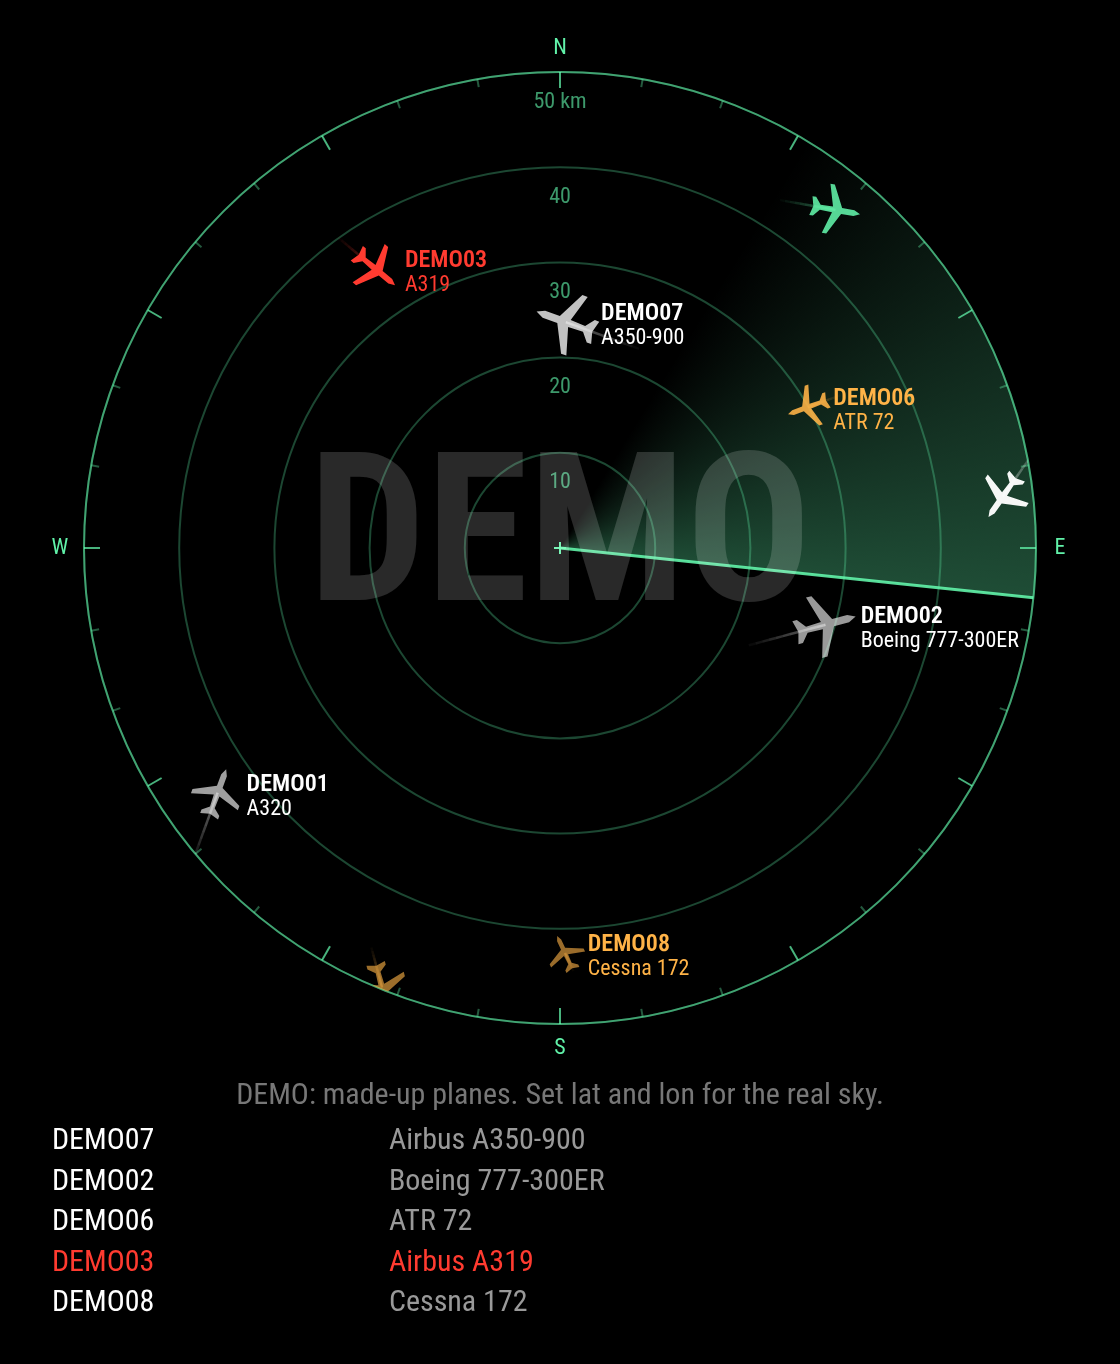
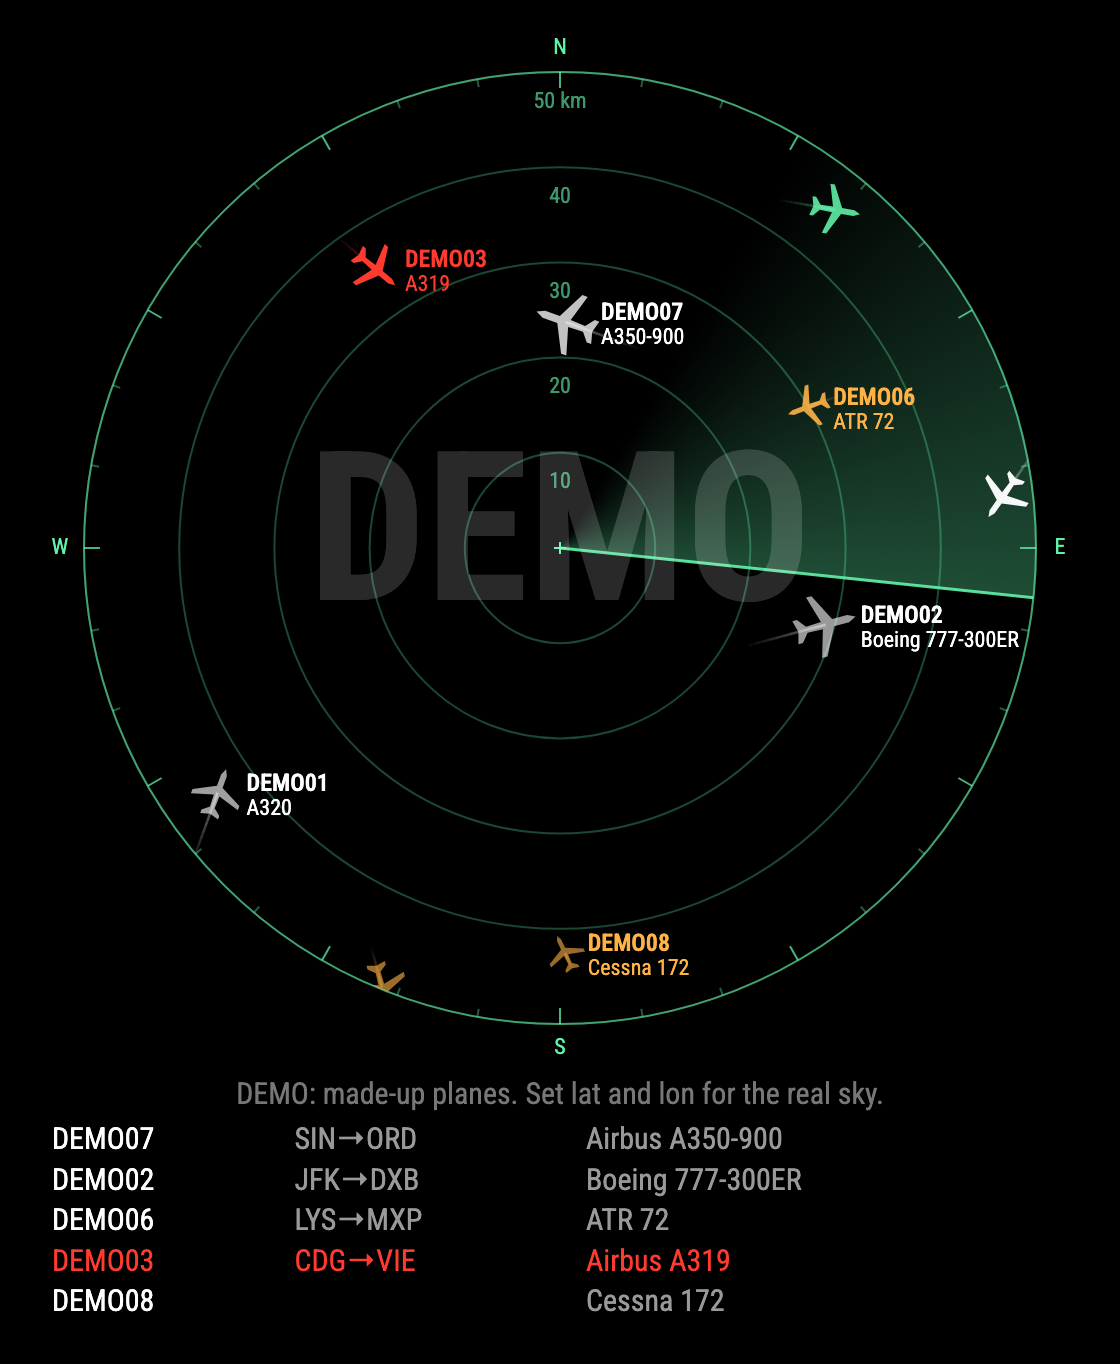
Show flight numbers and routes in the list
Routes come from adsbdb, looked up by callsign only and kept for six
hours. The helper looks them up in the background, so they arrive with
a later update and never hold up the planes. The list now starts with
the IATA flight number and route; the scope labels are unchanged.

diff --git a/lib/feeds.js b/lib/feeds.js
@@ -8,6 +8,8 @@ const KM_PER_DEG_LON = 111.32;
 const MAX_RADIUS_NM = 250;
 const MAX_POSITION_AGE_S = 60;
 const FETCH_TIMEOUT_MS = 8000;
+const ROUTE_URL = "https://api.adsbdb.com/v0/callsign/";
+const USER_AGENT = "MMM-SkyScope (MagicMirror module)";
 
 const FEEDS = [
 	{ name: "adsb.lol", url: (lat, lon, nm) => `https://api.adsb.lol/v2/point/${lat}/${lon}/${nm}` },
@@ -88,7 +90,7 @@ async function fetchPlanes (area, fetchFn = fetch) {
 	for (const feed of FEEDS) {
 		try {
 			const response = await fetchFn(feed.url(area.lat, area.lon, area.nm), {
-				headers: { "User-Agent": "MMM-SkyScope (MagicMirror module)" },
+				headers: { "User-Agent": USER_AGENT },
 				signal: AbortSignal.timeout(FETCH_TIMEOUT_MS)
 			});
 			if (!response.ok) throw new Error(`HTTP ${response.status}`);
@@ -101,6 +103,47 @@ async function fetchPlanes (area, fetchFn = fetch) {
 }
 
 /**
+ * Whether a callsign looks like an airline flight (three letters, then a number), the only kind a route can be found for.
+ * @param {string} callsign as the plane reports it
+ * @returns {boolean} true for something like SWR262C
+ */
+function isFlightCallsign (callsign) {
+	return /^[A-Z]{3}\d[A-Z0-9]{0,4}$/.test(callsign);
+}
+
+/**
+ * Turn an adsbdb answer into the flight number and the airports, preferring the IATA codes people know.
+ * @param {object} body the decoded response
+ * @returns {{flight: string, from: string, to: string}|null} the route, or null when the answer has none
+ */
+function parseRoute (body) {
+	const route = body && body.response && body.response.flightroute;
+	if (!route || !route.origin || !route.destination) return null;
+	const code = (airport) => airport.iata_code || airport.icao_code || "";
+	return {
+		flight: route.callsign_iata || route.callsign || "",
+		from: code(route.origin),
+		to: code(route.destination)
+	};
+}
+
+/**
+ * Look up where a flight goes. Only the callsign is sent, never a position.
+ * @param {string} callsign an airline callsign such as SWR262C
+ * @param {Function} fetchFn fetch, replaceable for the tests
+ * @returns {Promise<object|null>} the route, or null when the callsign is unknown
+ */
+async function fetchRoute (callsign, fetchFn = fetch) {
+	const response = await fetchFn(ROUTE_URL + encodeURIComponent(callsign), {
+		headers: { "User-Agent": USER_AGENT },
+		signal: AbortSignal.timeout(FETCH_TIMEOUT_MS)
+	});
+	if (response.status === 404) return null;
+	if (!response.ok) throw new Error(`HTTP ${response.status}`);
+	return parseRoute(await response.json());
+}
+
+/**
  * A made-up sky: planes on straight lines across the scope, worked out from the clock alone.
  * @param {number} lat centre latitude
  * @param {number} lon centre longitude
@@ -110,12 +153,14 @@ async function fetchPlanes (area, fetchFn = fetch) {
  */
 function demoPlanes (lat, lon, rangeKm, nowMs) {
 	const routes = [
-		[20, -0.5, 460, 37000, "A320", "A3"], [75, 0.3, 480, 39000, "B77W", "A5"], [130, -0.2, 300, 14000, "A319", "A3"],
-		[165, 0.6, 250, 8000, "E190", "A3"], [215, -0.7, 440, 33000, "B738", "A3"], [250, 0.1, 210, 5500, "AT76", "A2"],
-		[290, 0.45, 470, 41000, "A359", "A5"], [335, -0.35, 120, 3500, "C172", "A1"], [100, -0.8, 340, 21000, "CRJ9", "A3"]
+		[20, -0.5, 460, 37000, "A320", "A3", "LHR", "IST"], [75, 0.3, 480, 39000, "B77W", "A5", "JFK", "DXB"],
+		[130, -0.2, 300, 14000, "A319", "A3", "CDG", "VIE"], [165, 0.6, 250, 8000, "E190", "A3", "AMS", "FCO"],
+		[215, -0.7, 440, 33000, "B738", "A3", "CPH", "MAD"], [250, 0.1, 210, 5500, "AT76", "A2", "LYS", "MXP"],
+		[290, 0.45, 470, 41000, "A359", "A5", "SIN", "ORD"], [335, -0.35, 120, 3500, "C172", "A1"],
+		[100, -0.8, 340, 21000, "CRJ9", "A3", "BCN", "MUC"]
 	];
 	const cosLat = Math.cos(lat * Math.PI / 180);
-	return routes.map(([track, offset, speedKt, altFt, type, category], i) => {
+	return routes.map(([track, offset, speedKt, altFt, type, category, from, to], i) => {
 		const heading = track * Math.PI / 180;
 		const length = rangeKm * 2.4;
 		// Speeded up against the range, so a small scope is not crossed in seconds or a large one in hours.
@@ -142,9 +187,10 @@ function demoPlanes (lat, lon, rangeKm, nowMs) {
 			track,
 			climbFpm: i % 3 === 0 ? -900 : i % 3 === 1 ? 0 : 1100,
 			emergency: i === 2,
-			ageMs: 0
+			ageMs: 0,
+			route: from ? { flight: callsign, from, to } : null
 		};
 	});
 }
 
-module.exports = { demoPlanes, fetchPlanes, normalizeAircraft, parseResponse, requestArea };
+module.exports = { demoPlanes, fetchPlanes, fetchRoute, isFlightCallsign, normalizeAircraft, parseResponse, parseRoute, requestArea };

diff --git a/test/feeds.test.js b/test/feeds.test.js
@@ -1,6 +1,6 @@
 const assert = require("node:assert/strict");
 const { test } = require("node:test");
-const { demoPlanes, fetchPlanes, normalizeAircraft, parseResponse, requestArea } = require("../lib/feeds");
+const { demoPlanes, fetchPlanes, fetchRoute, isFlightCallsign, normalizeAircraft, parseResponse, parseRoute, requestArea } = require("../lib/feeds");
 
 const record = { hex: "abc123", flight: "SWR12   ", r: "HB-JCA", t: "BCS3", category: "A3", lat: 47.4, lon: 8.5, alt_baro: 36000, gs: 450, track: 90, baro_rate: -64, squawk: "2777", emergency: "none", seen_pos: 1.5 };
 
@@ -76,4 +76,47 @@ test("the demo sky moves along each plane's track", () => {
 	assert.equal(first.track, 20);
 	assert.ok(later.lat > first.lat, "a plane on track 020 goes north");
 	assert.ok(later.lon > first.lon, "a plane on track 020 goes east");
+});
+const routeBody = { response: { flightroute: {
+	callsign: "SWR262C", callsign_iata: "LX262C",
+	origin: { iata_code: "AGP", icao_code: "LEMG" },
+	destination: { iata_code: "ZRH", icao_code: "LSZH" }
+} } };
+
+test("only airline callsigns are looked up", () => {
+	assert.equal(isFlightCallsign("SWR262C"), true);
+	assert.equal(isFlightCallsign("HB-JCA"), false);
+	assert.equal(isFlightCallsign("ABC123"), true);
+	assert.equal(isFlightCallsign("N12345"), false);
+	assert.equal(isFlightCallsign("4B1805"), false);
+});
+
+test("a route gives the IATA flight number and airports, with ICAO as the fallback", () => {
+	assert.deepEqual(parseRoute(routeBody), { flight: "LX262C", from: "AGP", to: "ZRH" });
+	const icaoOnly = structuredClone(routeBody);
+	delete icaoOnly.response.flightroute.callsign_iata;
+	delete icaoOnly.response.flightroute.origin.iata_code;
+	assert.deepEqual(parseRoute(icaoOnly), { flight: "SWR262C", from: "LEMG", to: "ZRH" });
+	assert.equal(parseRoute({ response: "unknown callsign" }), null);
+});
+
+test("a route lookup sends the callsign and nothing else", async () => {
+	const urls = [];
+	const fakeFetch = async (url) => {
+		urls.push(url);
+		return { ok: true, status: 200, json: async () => routeBody };
+	};
+	assert.deepEqual(await fetchRoute("SWR262C", fakeFetch), { flight: "LX262C", from: "AGP", to: "ZRH" });
+	assert.deepEqual(urls, ["https://api.adsbdb.com/v0/callsign/SWR262C"]);
+});
+
+test("an unknown callsign has no route, a failing service throws", async () => {
+	assert.equal(await fetchRoute("NOPE123", async () => ({ ok: false, status: 404 })), null);
+	await assert.rejects(fetchRoute("SWR262C", async () => ({ ok: false, status: 500 })));
+});
+
+test("demo planes carry made-up routes, except the light plane", () => {
+	const planes = demoPlanes(0, 0, 50, 0);
+	assert.deepEqual(planes[0].route, { flight: "DEMO01", from: "LHR", to: "IST" });
+	assert.equal(planes[7].route, null);
 });

diff --git a/node_helper.js b/node_helper.js
@@ -1,11 +1,17 @@
 const NodeHelper = require("node_helper");
-const { demoPlanes, fetchPlanes, requestArea } = require("./lib/feeds");
+const { demoPlanes, fetchPlanes, fetchRoute, isFlightCallsign, requestArea } = require("./lib/feeds");
 
 const CACHE_MS = 5000;
+const ROUTE_KEEP_MS = 6 * 60 * 60 * 1000;
+const ROUTE_RETRY_MS = 10 * 60 * 1000;
+const ROUTE_LOOKUPS_AT_ONCE = 4;
+const ROUTE_CACHE_SIZE = 2000;
 
 module.exports = NodeHelper.create({
 	start () {
 		this.cache = new Map();
+		this.routes = new Map();
+		this.routeLookups = 0;
 	},
 
 	socketNotificationReceived (notification, payload) {
@@ -21,11 +27,39 @@ module.exports = NodeHelper.create({
 
 		try {
 			const { source, planes } = await this.load(requestArea(lat, lon, rangeKm));
-			this.sendSocketNotification("SKYSCOPE_DATA", { id, ok: true, source, planes });
+			const withRoutes = planes.map((plane) => ({ ...plane, route: this.route(plane.callsign) }));
+			this.sendSocketNotification("SKYSCOPE_DATA", { id, ok: true, source, planes: withRoutes });
 		} catch (error) {
 			console.error(`MMM-SkyScope: no feed answered: ${error.message}`);
 			this.sendSocketNotification("SKYSCOPE_DATA", { id, ok: false });
 		}
+	},
+
+	// The route if it is known. Otherwise it is looked up in the background and goes out with a later update,
+	// so a slow route lookup never holds up the planes.
+	route (callsign) {
+		if (!isFlightCallsign(callsign)) return null;
+		const known = this.routes.get(callsign);
+		const now = Date.now();
+		if (known && (known.pending || now < known.until)) return known.route;
+		if (this.routeLookups >= ROUTE_LOOKUPS_AT_ONCE) return known ? known.route : null;
+
+		if (this.routes.size >= ROUTE_CACHE_SIZE) {
+			for (const [key, entry] of this.routes) {
+				if (!entry.pending && now >= entry.until) this.routes.delete(key);
+			}
+		}
+		const route = known ? known.route : null;
+		this.routes.set(callsign, { route, pending: true });
+		this.routeLookups += 1;
+		fetchRoute(callsign)
+			.then((found) => this.routes.set(callsign, { route: found, until: Date.now() + ROUTE_KEEP_MS }))
+			.catch((error) => {
+				console.warn(`MMM-SkyScope: no route for ${callsign}: ${error.message}`);
+				this.routes.set(callsign, { route, until: Date.now() + ROUTE_RETRY_MS });
+			})
+			.finally(() => { this.routeLookups -= 1; });
+		return route;
 	},
 
 	// Several mirrors or instances asking for the same area share one request.

diff --git a/MMM-SkyScope.js b/MMM-SkyScope.js
@@ -551,8 +551,11 @@
 				if (data.emergency) row.className = "skyscope-emergency";
 				// The airline says enough on its own. For anyone else, where the plane is from helps.
 				const airline = data.operator && data.operator !== "Private";
-				const detail = airline ? "" : [data.operator, data.country].filter(Boolean).join(", ");
-				for (const text of [data.label, data.aircraft, detail]) row.insertCell().textContent = text;
+				const detail = airline ? data.label : [data.operator, data.country].filter(Boolean).join(", ");
+				// An airline flight goes by its flight number, anyone else by the label, which is the registration.
+				const flight = data.route ? data.route.flight : airline ? data.callsign : data.label;
+				const route = data.route ? `${data.route.from}→${data.route.to}` : "";
+				for (const text of [flight, route, data.aircraft, detail]) row.insertCell().textContent = text;
 			}
 		}
 	});

diff --git a/MMM-SkyScope.css b/MMM-SkyScope.css
@@ -37,11 +37,12 @@
 	text-align: left;
 }
 
-.skyscope-list td:nth-child(2) {
+.skyscope-list td:nth-child(2),
+.skyscope-list td:nth-child(3) {
 	text-align: left;
 }
 
-.skyscope-list td:nth-child(3) {
+.skyscope-list td:nth-child(4) {
 	opacity: 0.7;
 }
 

diff --git a/README.md b/README.md
@@ -1,6 +1,6 @@
 # MMM-SkyScope
 
-A live radar scope of the planes around your home for [MagicMirror²](https://magicmirror.builders/). Each plane is a silhouette turned the way it flies, coloured by its height, with a trail behind it and a sweeping beam over the top. The nearest flights are listed underneath, by airline and aircraft name.
+A live radar scope of the planes around your home for [MagicMirror²](https://magicmirror.builders/). Each plane is a silhouette turned the way it flies, coloured by its height, with a trail behind it and a sweeping beam over the top. The nearest flights are listed underneath with their flight number, route and aircraft.
 
 ![The scope in demo mode, with made-up planes and one in an emergency](docs/demo.png)
 
@@ -59,11 +59,11 @@ Without `lat` and `lon` it flies a made-up sky, marked DEMO in big letters.
 - **White:** above 25,000 ft
 - **Blinking red and white:** emergency (squawk 7500, 7600 or 7700, or an emergency status)
 
-Labels name the airline and the aircraft, such as `Swiss` over `A320neo`. A plane flying under its own registration, like a private plane, helicopter or balloon, shows the registration instead, such as `HB-QOZ` over `Hot-air balloon`. The list below the scope gives the full aircraft name, and for planes that are not airline flights, whether they are private and the country they are registered in. Callsigns of airlines the module does not know are shown as they are.
+Labels name the airline and the aircraft, such as `Swiss` over `A320neo`. A plane flying under its own registration, like a private plane, helicopter or balloon, shows the registration instead, such as `HB-QOZ` over `Hot-air balloon`. The list below the scope gives the flight number and route, such as `LX262C  AGP→ZRH`, then the full aircraft name and the airline. For planes that are not airline flights it gives the registration, whether they are private and the country they are registered in. Flight numbers and routes come from [adsbdb](https://www.adsbdb.com/), a shared database of scheduled flights that is now and then out of date. Where it has no route, the list shows the callsign and leaves the route empty. Callsigns of airlines the module does not know are shown as they are.
 
 ## Data and privacy
 
-Planes come from the free community networks [adsb.lol](https://adsb.lol/), with [adsb.fi](https://adsb.fi/) as the fallback. The status line says which one answered. Check their terms if you use this for anything beyond a personal mirror.
+Planes come from the free community networks [adsb.lol](https://adsb.lol/), with [adsb.fi](https://adsb.fi/) as the fallback. The status line says which one answered. Routes come from [adsbdb](https://www.adsbdb.com/), which is sent only the callsigns of airline flights in range, never a position. Each route is kept for six hours, so a flight is looked up once. Check their terms if you use this for anything beyond a personal mirror.
 
 Your home is rounded to about a kilometre before it is sent, so the feeds learn the area and not the address. The exact position stays on the mirror and is used only to draw the scope.
 

diff --git a/CLAUDE.md b/CLAUDE.md
@@ -5,7 +5,7 @@ A MagicMirror² module: a radar scope of the planes around a home point. See `RE
 ## Layout
 
 - `MMM-SkyScope.js`: the browser side. Draws the scope on a canvas and fills the status line and list.
-- `node_helper.js`: the server side. Answers `SKYSCOPE_FETCH` with `SKYSCOPE_DATA`, sharing identical requests for 5 seconds.
+- `node_helper.js`: the server side. Answers `SKYSCOPE_FETCH` with `SKYSCOPE_DATA`, sharing identical requests for 5 seconds. Routes are looked up in the background and kept for six hours, so they arrive with a later update.
 - `lib/feeds.js`: the feeds, record parsing and the demo sky. No MagicMirror dependencies, so `npm test` can load it.
 - `lib/names.js`: plain names for airline codes, aircraft type codes and registration countries. adsb.lol sends no aircraft descriptions, so the type table is what names most planes; add to it rather than to the feeds.
 - `tools/`: a preview page and scripts for checking the drawing without MagicMirror.
@@ -43,6 +43,7 @@ The scope is three stacked canvases, because a Raspberry Pi 3 in Electron draws 
 ## Decisions
 
 - **Feeds:** adsb.lol first, adsb.fi as the fallback. Both work without a key. airplanes.live answers with a request to contact them first, so it is not used.
+- **Routes:** adsbdb, looked up by callsign only. The adsb.lol routeset endpoint answered with an empty body when tried. Routes are shown in the list, not on the scope labels: a route line on every label roughly doubled the label lines covering other planes in the busy sky.
 - **Name:** SkyScope avoids the OWLOS and Flightradar24 names. The code is original; only the OWLOS README was read, and the README credits it as the inspiration.
 - **Controls:** no touch controls, as most mirrors have no touchscreen.
 - **Presence:** `followPresence` reads MMM-PIR-Sensor's config and copies its `powerSavingDelay`, so there is no second delay to keep in step. The radar must never sleep while the screen is on, so it stays awake if that module's `powerSaving` is off or an `alwaysOnPin` is set.
